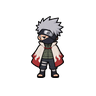
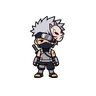
feat(meta): skins Ultimate y el nuevo aspecto 2 de Kakashi
Integradas las hojas 88-91: las seis skins Ultimate (Naruto, Sasuke,
Kakashi, Gaara, Might Guy y Nagato), el aspecto 2 de Kakashi como ANBU
joven (el Hokage pasa a ser su Ultimate) y el aura carmesí de su
revelación. Las Ultimate se eligen como un aspecto más en el Bingo Book,
en carmesí y bloqueadas hasta tenerlas; elegida, cambia el sprite en
todo el juego. Cómo salen en el gacha queda pendiente del nuevo sistema
de probabilidades; mientras, la herramienta de pruebas las da todas.

Changed region(s): [[0.3125, 0.1562, 0.6875, 0.8125]]

diff --git a/src/components/common/Maestria.jsx b/src/components/common/Maestria.jsx
@@ -1,7 +1,8 @@
 import { useMaestria } from './nivelDeNinja';
 import { useAchievementsStore } from '../../store/useAchievementsStore';
 import { aspectosDesbloqueados } from '../../engine/maestria';
-import { aspectosDibujados, spriteDeAspecto, spriteBaseDeLuchador } from './characterSprites';
+import { aspectosDibujados, spriteDeAspecto, spriteBaseDeLuchador, spriteDeUltimate } from './characterSprites';
+import ultimatesData from '../../data/ultimates.json';
 import maestriaData from '../../data/maestria.json';
 
 /**
@@ -29,30 +30,37 @@ export function SelectorAspecto({ id }) {
   const { nivel } = useMaestria(id);
   const elegido = useAchievementsStore((s) => s.aspectosElegidos[id] ?? 0);
   const elegirAspecto = useAchievementsStore((s) => s.elegirAspecto);
+  const tieneUltimate = useAchievementsStore((s) => (s.invocacion.ultimates ?? []).includes(id));
   const dibujados = aspectosDibujados(id);
-  if (dibujados.length === 0) return null;
+  const ultimate = ultimatesData.ultimates[id] && spriteDeUltimate(id) ? 'ultimate' : null;
+  if (dibujados.length === 0 && !ultimate) return null;
   const abiertos = aspectosDesbloqueados(nivel, maestriaData);
-  const opciones = [0, ...dibujados];
+  // La Ultimate va la última, y solo para quien la tiene: sale del gacha, no del nivel.
+  const opciones = [0, ...dibujados, ...(ultimate ? [ultimate] : [])];
   return (
     <div className="flex flex-col items-center gap-1.5">
       <p className="text-[9px] text-pergamino-200/70 font-display">Outfit</p>
       <div className="flex gap-2" role="radiogroup" aria-label="Outfit">
         {opciones.map((n) => {
-          const abierto = n === 0 || abiertos.includes(n);
-          const sprite = n === 0 ? spriteBaseDeLuchador(id) : spriteDeAspecto(id, n);
+          const esUltimate = n === 'ultimate';
+          const abierto = n === 0 || (esUltimate ? tieneUltimate : abiertos.includes(n));
+          const sprite = n === 0 ? spriteBaseDeLuchador(id) : esUltimate ? spriteDeUltimate(id) : spriteDeAspecto(id, n);
           return (
             <button
               key={n}
               type="button"
               role="radio"
               aria-checked={elegido === n}
-              aria-label={n === 0 ? 'Default outfit' : `Outfit ${n}`}
+              aria-label={n === 0 ? 'Default outfit' : esUltimate ? `Ultimate: ${ultimatesData.ultimates[id]}` : `Outfit ${n}`}
               disabled={!abierto}
               onClick={() => elegirAspecto(id, n)}
-              title={abierto ? undefined : `Ninja Lv.${maestriaData.aspectos[n]}`}
+              title={esUltimate ? `Ultimate · ${ultimatesData.ultimates[id]}${abierto ? '' : ' (summon only)'}`
+                : abierto ? undefined : `Ninja Lv.${maestriaData.aspectos[n]}`}
               className={[
                 'w-12 h-12 border-2 rounded-sm flex items-center justify-center',
-                elegido === n ? 'border-oro' : 'border-marco',
+                // La Ultimate, en carmesí: el color que no usa ninguna otra rareza.
+                esUltimate ? (elegido === n ? 'border-[#c0202a] shadow-[0_0_10px_rgba(192,32,42,0.7)]' : 'border-[#c0202a]/60')
+                  : elegido === n ? 'border-oro' : 'border-marco',
                 abierto ? 'hover:border-pergamino-200/60' : 'opacity-40 cursor-not-allowed',
               ].join(' ')}
             >

diff --git a/src/components/common/characterSprites.test.js b/src/components/common/characterSprites.test.js
@@ -13,6 +13,7 @@ import enemiesData from '../../data/enemies.json';
 import commonEnemiesData from '../../data/common-enemies.json';
 import campaignsData from '../../data/campaigns.json';
 import { ARCOS } from '../../data/arcs';
+import ultimatesData from '../../data/ultimates.json';
 import arcoOlas from '../../data/arcs/pais-de-las-olas.json';
 import arcoChunin from '../../data/arcs/examen-chunin.json';
 import arcoPain from '../../data/arcs/invasion-de-pain.json';
@@ -48,5 +49,25 @@ describe('arcos a la espera de arte', () => {
         expect(fs.existsSync(path.join(assets, 'medals', `${arco.id}.png`)), `${arco.id}: medalla`).toBe(true);
       }
     }
+  });
+});
+
+describe('skins Ultimate', () => {
+  it('toda Ultimate de los datos tiene su sprite, y no hay sprites de Ultimate sin declarar', () => {
+    const carpeta = path.resolve(CARPETA, '..', 'ultimates');
+    const dibujadas = fs.readdirSync(carpeta).filter((f) => f.endsWith('.png')).map((f) => f.replace(/\.png$/, ''));
+    expect(new Set(dibujadas)).toEqual(new Set(Object.keys(ultimatesData.ultimates)));
+  });
+});
+
+describe('elegir la Ultimate', () => {
+  it('cambia el sprite del ninja en todo el juego', async () => {
+    const { spriteDeLuchador, spriteDeUltimate, spriteBaseDeLuchador } = await import('./characterSprites');
+    const { useAchievementsStore } = await import('../../store/useAchievementsStore');
+    useAchievementsStore.setState({ aspectosElegidos: { naruto: 'ultimate' } });
+    expect(spriteDeLuchador('naruto')).toBe(spriteDeUltimate('naruto'));
+    expect(spriteDeLuchador('naruto')).not.toBe(spriteBaseDeLuchador('naruto'));
+    useAchievementsStore.setState({ aspectosElegidos: {} });
+    expect(spriteDeLuchador('naruto')).toBe(spriteBaseDeLuchador('naruto'));
   });
 });

diff --git a/src/store/useAchievementsStore.js b/src/store/useAchievementsStore.js
@@ -13,6 +13,7 @@ import {
 import { nivelDeMaestria, xpParaSubirUnNivel, xpTotalParaNivel } from '../engine/maestria';
 import { ESTADO_INVOCACION_VACIO, invocar as invocarEnMotor, catalogoDisponible } from '../engine/invocacion';
 import invocacionData from '../data/invocacion.json';
+import ultimatesData from '../data/ultimates.json';
 import charactersData from '../data/characters.json';
 import enemiesData from '../data/enemies.json';
 import { ARCOS } from '../data/arcs';
@@ -315,6 +316,10 @@ export const useAchievementsStore = create((set, get) => ({
     const reglas = configGlobal.maestria;
     const falta = xpTotalParaNivel(reglas.nivelMaximo, reglas) - (get().maestria[idNinja] ?? 0);
     if (falta > 0) get().sumarXpMaestria({ [idNinja]: falta });
+    // Y todas las skins Ultimate, hasta que tengan su forma de salir en el gacha.
+    const invocacion = { ...get().invocacion, ultimates: Object.keys(ultimatesData.ultimates) };
+    set({ invocacion });
+    localStorage.setItem(CLAVE_INVOCACION, JSON.stringify(invocacion));
   },
 
   /** Interno: el diario de una fecha (si lo guardado es de otro día, uno vacío). */

diff --git a/src/components/common/characterSprites.js b/src/components/common/characterSprites.js
@@ -54,5 +54,20 @@ export function spriteDeAspecto(id, n) {
  */
 export function spriteDeLuchador(id) {
   const elegido = useAchievementsStore.getState().aspectosElegidos?.[id];
+  if (elegido === 'ultimate') return SPRITE_ULTIMATE[id] || SPRITE_LUCHADOR[id] || null;
   return (elegido && SPRITE_ASPECTO[`${id}_${elegido}`]) || SPRITE_LUCHADOR[id] || null;
+}
+
+/**
+ * Las skins Ultimate (documentacion/42, hojas 88-89): una por ninja, en
+ * `assets/ultimates/<id>.png`. Se eligen como un aspecto más (`'ultimate'`).
+ */
+const SPRITE_ULTIMATE = Object.fromEntries(
+  Object.entries(
+    import.meta.glob('../../assets/ultimates/*.png', { eager: true, query: '?url', import: 'default' }),
+  ).map(([ruta, url]) => [ruta.split('/').pop().replace(/\.png$/, ''), url]),
+);
+
+export function spriteDeUltimate(id) {
+  return SPRITE_ULTIMATE[id] ?? null;
 }

diff --git a/src/components/Settings/SettingsScreen.jsx b/src/components/Settings/SettingsScreen.jsx
@@ -258,7 +258,7 @@ export default function SettingsScreen() {
       {modoPruebas() && (
         <section className="flex flex-col gap-1 mt-3">
           <TituloBloque>Testing</TituloBloque>
-          <FilaAjuste etiqueta="+10000 scrolls, Naruto at max Ninja Lv." pista="Only for testing the Summon and mastery.">
+          <FilaAjuste etiqueta="+10000 scrolls, Naruto at max Ninja Lv., all Ultimate skins" pista="Only for testing the Summon and mastery.">
             <BotonSecundario onClick={() => herramientaDePruebas('naruto')}>APPLY</BotonSecundario>
           </FilaAjuste>
         </section>

diff --git a/src/engine/invocacion.js b/src/engine/invocacion.js
@@ -12,6 +12,8 @@ export const ESTADO_INVOCACION_VACIO = {
   personajes: [],
   objetos: [],
   paginas: [],
+  // Las skins Ultimate conseguidas (ids de ninja, ver data/ultimates.json).
+  ultimates: [],
   legendarios: 0,
 };
 

diff --git a/documentacion/41-arte-estilo-nuevo.md b/documentacion/41-arte-estilo-nuevo.md
@@ -1246,7 +1246,9 @@ Attached: previous strip = effects/humo-invocacion.png; a character sprite for s
 
 ## Tanda 15 — skins Ultimate (hojas 88-91)
 
-⏳ **PENDIENTES.** Las skins **Ultimate**: aspectos exclusivos del gacha, con una probabilidad muy baja, que
+✅ **HECHAS el 2026-10-16.** Se eligen ya como aspecto en el Bingo Book; cómo salen en el gacha sigue pendiente.
+
+**Antes:** Las skins **Ultimate**: aspectos exclusivos del gacha, con una probabilidad muy baja, que
 representan **un momento icónico** de la serie (no un traje alternativo más). De momento solo para seis
 ninjas: Naruto, Sasuke, Kakashi, Gaara, Might Guy y Pain. El script las deja en `assets/ultimates/<id>.png`.
 ⚠ El código y su probabilidad están **pendientes** (se va a rediseñar el sistema de probabilidades del gacha);
